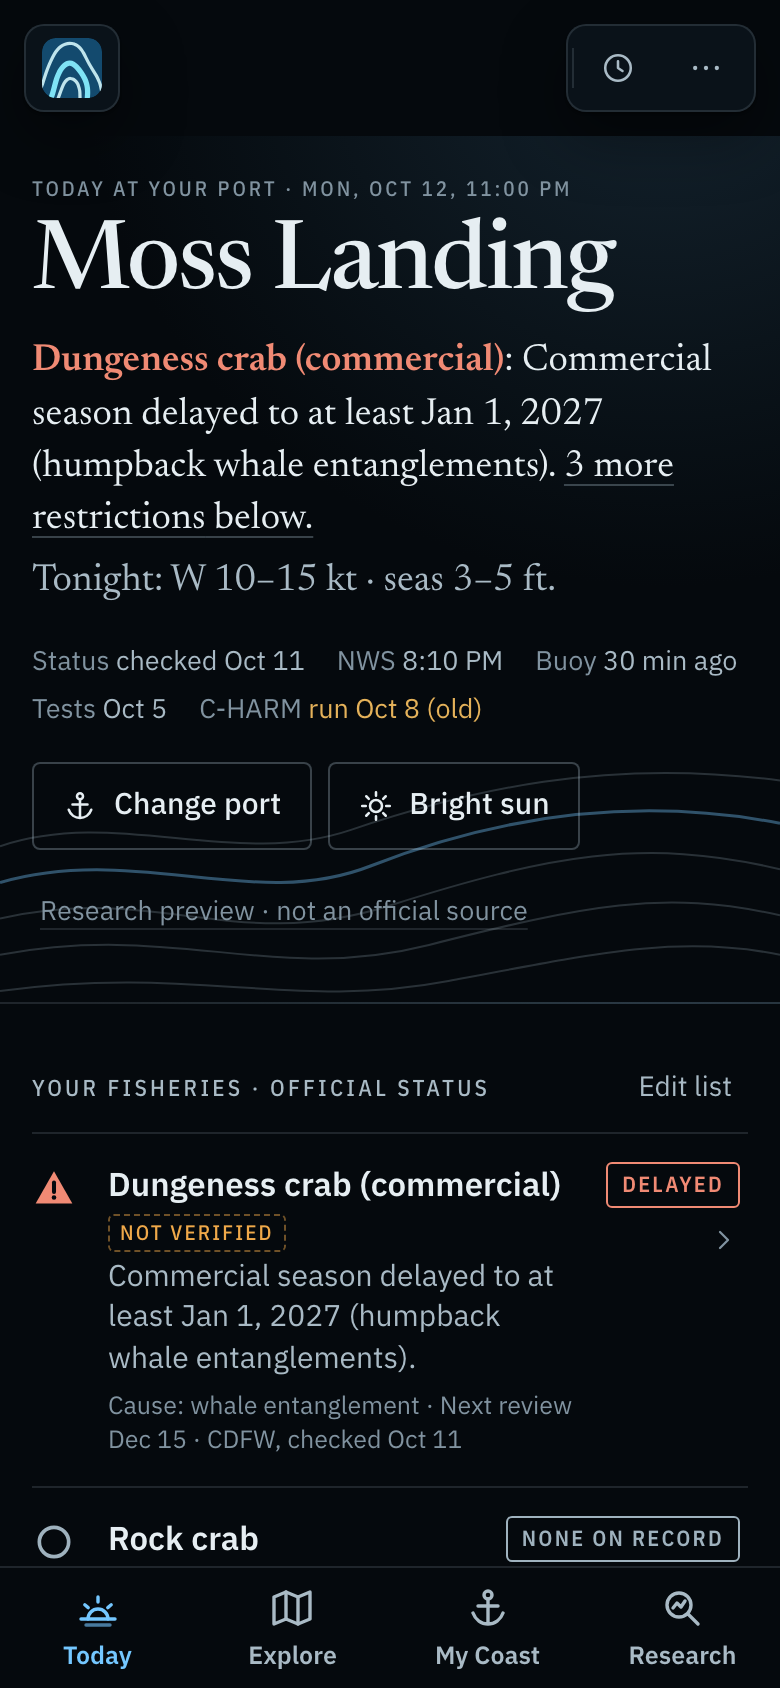
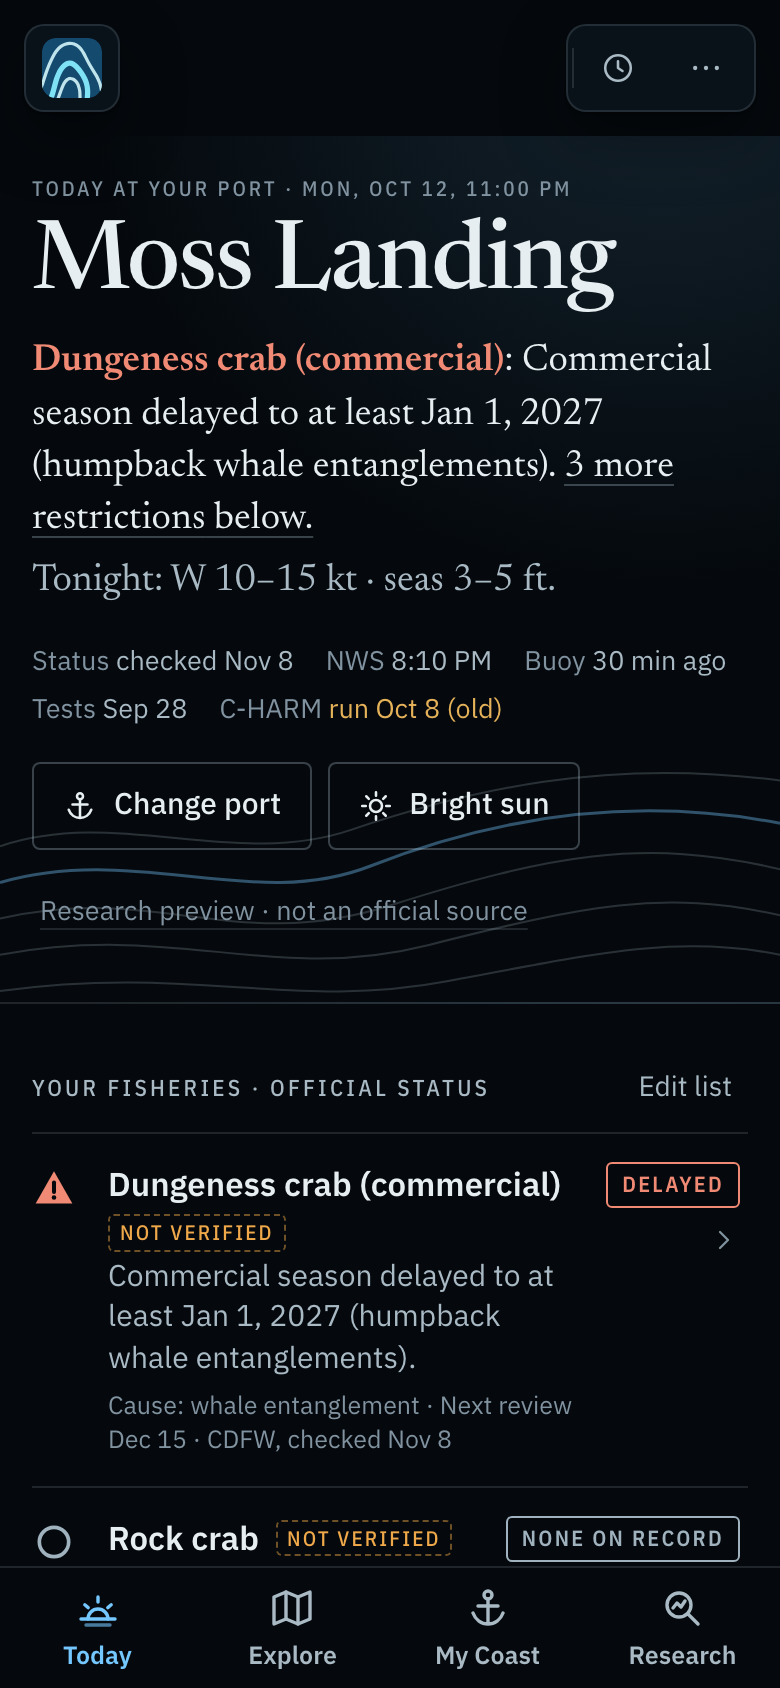
Today: read the data track's sidecars and fixtures; drop the temporary ones
src/pilot/today/load.ts now uses parseBiotoxin/parseFisheriesStatus from src/pilot/data; the
temporary checks and the Today-only sidecar fixtures are deleted. Whale rules take the zone the
data file maps the port to (then its published latitudes, then CDFW's bounds) and quote CDFW's
assessment window. Tests name CDPH's collection site; values below the reporting limit are
drawn as not quantified. Unit tests run on the data track's fixtures (with synthetic sites for
the two-clean-sets and over-limit cases); screenshots retaken.

diff --git a/coastwatch-web/tests/unit/todayFacts.test.ts b/coastwatch-web/tests/unit/todayFacts.test.ts
@@ -4,11 +4,12 @@ import path from "node:path";
 import type { BiotoxinIndex, FisheriesStatusIndex, PortFact } from "@/pilot/contracts";
 import type { Conditions } from "@/lib/conditions";
 import { buildPortToday, buildTodayModel, diffFacts, parseFisheries, rampZoneFor, skillWords, snapFacts, testSentence, type CharmInput, type NoticeInput, type OutlookInput, type PortTodayInputs } from "@/pilot/facts";
-import { parseBiotoxin, parseFisheriesStatus } from "@/pilot/today/sidecars";
+import { parseBiotoxin, parseFisheriesStatus } from "@/pilot/data";
 
-const fx = (rel: string) => JSON.parse(readFileSync(path.join(__dirname, "..", "fixture-derived", "v1", rel), "utf8"));
-const BIO = parseBiotoxin(fx("biotoxin/index.json"))!;
-const FISH = parseFisheriesStatus(fx("fisheries-status/index.json"))!;
+// the data track's fixtures (pilot/data: `cwp fixture`), as the page reads them
+const fx = (rel: string) => JSON.parse(readFileSync(path.join(__dirname, "..", "fixture-data", "v1", rel), "utf8"));
+const BIO = parseBiotoxin(fx("biotoxin/index.json"))! as BiotoxinIndex;
+const FISH = parseFisheriesStatus(fx("fisheries-status/index.json"))! as FisheriesStatusIndex;
 const NOW = "2026-10-13T13:00:00Z"; // 6 AM PDT
 
 const charm = (p: number, state: CharmInput["state"] = "current", here = false): CharmInput => ({
@@ -43,6 +44,13 @@ const base = (over: Partial<PortTodayInputs> = {}): PortTodayInputs => ({
   conditions: null,
   ...over,
 });
+const set = (date: string, values: (number | null)[], lvl = 30): BiotoxinIndex["sites"][number]["sets"][number] => {
+  const nums = values.filter((v): v is number => v != null);
+  return { date, kind: "routine", tissue: "viscera", values_ppm: values, nd_count: values.length - nums.length, avg_ppm: Number((nums.reduce((a, b) => a + b, 0) / nums.length).toFixed(1)), max_ppm: Math.max(...nums), pct_over_action: null, action_level_ppm: lvl };
+};
+const PROGRESS: BiotoxinIndex["sites"][number] = { id: "test-progress-dungeness", bma: "G", bma_label: "Monterey Bay", port_label: null, site_label: "Test site", species: "Dungeness crab", lat: null, lon: null, informs_places: ["port-592"], sets: [set("2026-09-28", [3.1, 4.8, 9.2, 2.5, 6.0, 7.4]), set("2026-09-14", [null, 4.0, 12.1, 6.2, 8.3, 3.9]), set("2026-08-31", [14.2, 22.0, 9.8, 31.5, 18.0, 12.4])] };
+const ANCHOVY: BiotoxinIndex["sites"][number] = { id: "test-anchovy", bma: null, bma_label: "Monterey Bay", port_label: null, site_label: "Monterey Bay (Block 509)", species: "Northern anchovy", lat: null, lon: null, informs_places: ["port-592"], sets: [set("2026-10-05", [85, 210, 44, 120, 66, 31], 20)] };
+const BIO_PLUS: BiotoxinIndex = { ...BIO, sites: [...BIO.sites, PROGRESS, ANCHOVY] };
 const SAFETY = /\b(safe|safety|all clear|clear to|good to go|go fishing|green light|no risk)\b/i;
 const text = (f: PortFact) => [f.headline, f.value, f.detail].filter(Boolean).join(" ");
 
@@ -73,11 +81,11 @@ describe("buildPortToday: hierarchy", () => {
 
   it("a clean test never softens an official delay of the same fishery", () => {
     const m = buildTodayModel(base());
-    const t = m.tests.find((x) => x.site.id === "bma-g-monterey-bay-dungeness")!;
+    const t = m.tests.find((x) => x.site.id === "bma-g-monterey-bay-dungeness-crab")!;
     expect(t.fact.detail).toMatch(/still delayed/);
     expect(m.lede.label).toBe("Dungeness crab (commercial)");
     expect(m.lede.text).toMatch(/^Commercial season delayed to at least Jan 1, 2027/);
-    expect(m.lede.more).toBe(2); // anchovy/sardine and salmon restrictions below
+    expect(m.lede.more).toBe(3); // salmon (season over), anchovy/sardine, mussels (watch) below
   });
 
   it("keeps the strip order of the reader's fisheries and stable ids", () => {
@@ -137,10 +145,9 @@ describe("buildPortToday: words", () => {
   });
 
   it("states a test plainly first: place, species, verdict against the limit, date, average", () => {
-    const site = BIO.sites.find((s) => s.id === "bma-g-monterey-bay-dungeness")!;
+    const site = BIO.sites.find((s) => s.id === "bma-g-monterey-bay-dungeness-crab")!;
     expect(testSentence(site, site.sets[0], 30, NOW)).toBe("Monterey Bay Dungeness tested well under the limit on Sep 28: avg 5.5 ppm, limit 30.");
-    const anchovy = BIO.sites.find((s) => s.id === "monterey-bay-northern-anchovy")!;
-    expect(testSentence(anchovy, anchovy.sets[0], 20, NOW)).toMatch(/tested over the limit on Oct 5: 6 of 6 samples at or over 20 ppm, max 210 ppm/);
+    expect(testSentence(ANCHOVY, ANCHOVY.sets[0], 20, NOW)).toMatch(/tested over the limit on Oct 5: 6 of 6 samples at or over 20 ppm, max 210 ppm/);
   });
 
   it("observations are measured with their own time; forecasts are forecasts", () => {
@@ -173,9 +180,9 @@ describe("buildPortToday: stale and missing data", () => {
   });
 
   it("flags old tests, old status checks and an old refresh", () => {
-    const later = "2026-11-20T16:00:00Z";
+    const later = "2026-11-25T16:00:00Z";
     const m = buildTodayModel(base({ now: later }));
-    const t = m.tests.find((x) => x.site.id === "bma-g-monterey-bay-dungeness")!;
+    const t = m.tests.find((x) => x.site.id === "bma-g-monterey-bay-dungeness-crab")!;
     expect(t.stale).toBe(true);
     expect(t.fact.detail).toMatch(/over 30 days old/);
     expect(m.status.find((r) => r.fishery === "dungeness_commercial")!.stale).toBe(true);
@@ -194,12 +201,12 @@ describe("buildPortToday: stale and missing data", () => {
   });
 
   it("shows progress toward two clean sets after a set over the action level", () => {
-    const m = buildTodayModel(base());
-    const t = m.tests.find((x) => x.site.id === "bma-g-monterey-bay-dungeness")!;
+    const m = buildTodayModel(base({ biotoxin: BIO_PLUS }));
+    const t = m.tests.find((x) => x.site.id === "test-progress-dungeness")!;
     expect(t.cleanStreak).toBe(2);
     expect(t.showProgress).toBe(true);
     expect(t.progressWords).toMatch(/^Two consecutive sets under the action level \(Sep 14 and Sep 28\)/);
-    const a = m.tests.find((x) => x.site.id === "monterey-bay-northern-anchovy")!;
+    const a = m.tests.find((x) => x.site.id === "test-anchovy")!;
     expect(a.over).toBe(true);
     expect(a.fact.severity).toBe("amber");
     expect(a.cleanStreak).toBe(0);
@@ -214,7 +221,7 @@ describe("whale rules and helpers", () => {
     const m = buildTodayModel(base());
     expect(m.whale!.zone).toBe("4");
     expect(m.whale!.fact.severity).toBe("red");
-    expect(m.whale!.fact.detail).toMatch(/Next CDFW risk assessment Dec 15/);
+    expect(m.whale!.fact.detail).toMatch(/Next CDFW risk assessment December 15-18/);
     expect(m.whale!.verified).toBe(false);
   });
 
@@ -234,15 +241,18 @@ describe("what changed since the last visit", () => {
     expect(d.some((c) => c.id.startsWith("sea:") || c.id.startsWith("tide:"))).toBe(false);
     expect(diffFacts(snapFacts(next.facts), next.facts)).toEqual([]);
     const gone = diffFacts(snapFacts(next.facts), buildPortToday(base({ biotoxin: null })).facts);
-    expect(gone.filter((c) => c.change === "gone").map((c) => c.id)).toContain("test:bma-g-monterey-bay-dungeness");
+    expect(gone.filter((c) => c.change === "gone").map((c) => c.id)).toContain("test:bma-g-monterey-bay-dungeness-crab");
   });
 });
 
-describe("temporary sidecar checks", () => {
-  it("rejects malformed sidecars", () => {
-    expect(parseBiotoxin({ version: 2 })).toBeNull();
-    expect(parseFisheriesStatus({ version: 1, records: [{ id: "x", level: "safe" }] })!.records).toEqual([]);
-    expect((parseBiotoxin(fx("biotoxin/index.json")) as BiotoxinIndex).sites.length).toBe(4);
-    expect((parseFisheriesStatus(fx("fisheries-status/index.json")) as FisheriesStatusIndex).ramp!.zones.length).toBe(5);
+describe("the data track's fixtures, as Today reads them", () => {
+  it("Monterey Bay's ports get their crab sites and RAMP zone 4; Half Moon Bay gets its own", () => {
+    expect(BIO.sites.filter((x) => x.informs_places.includes("port-592")).map((x) => x.id)).toEqual(expect.arrayContaining(["bma-g-monterey-bay-dungeness-crab", "bma-g-monterey-bay-rock-crab"]));
+    const hmb = buildTodayModel(base({ place: { place_id: "port-452", label: "Princeton / Half Moon Bay", lat: 37.5037, lon: -122.48185 } }));
+    expect(hmb.whale!.zone).toBe("3");
+    expect(hmb.tests.map((t) => t.site.id)).toEqual(expect.arrayContaining(["bma-f-pillar-point-dungeness-crab", "bma-f-pigeon-point-dungeness-crab"]));
+    expect(hmb.status.find((r) => r.fishery === "anchovy_sardine")!.level).toBe("no_restriction_on_record");
+    // every curated record is pending, so every one says Not verified
+    expect(buildTodayModel(base()).status.filter((r) => r.records.length).every((r) => r.verified === false)).toBe(true);
   });
 });

diff --git a/coastwatch-web/src/pilot/facts.ts b/coastwatch-web/src/pilot/facts.ts
@@ -278,6 +278,8 @@ export type WhaleView = {
   gear_reduction_pct: number | null;
   last_assessment: string | null;
   next_assessment: string | null;
+  /** the assessment window as CDFW words it ("December 15-18 (then January 13-15), subject to change"), when published */
+  next_window: string | null;
   season: string | null;
   source_url: string | null;
   verified: boolean | null;
@@ -529,14 +531,19 @@ function ledeOf(rows: StatusRow[], statusError: boolean, sea: SeaView): Lede {
 // ---------------------------------------------------------------- whale (RAMP)
 
 function whaleView(ramp: RampState | null, place: TodayPlace, now: string, fact: (f: Omit<PortFact, "place_id">) => PortFact): WhaleView | null {
-  const z = rampZoneFor(place.lat);
   if (!ramp) return null;
-  const zone = ramp.zones.find((x) => x.zone.replace(/\D/g, "") === z.zone) ?? null;
+  // the zone the data file maps this place to, else the zone whose published latitudes hold it, else CDFW's bounds (14 CCR §132.8)
+  type Z = RampState["zones"][number] & { applies_to_places?: string[]; lat_north?: number | null; lat_south?: number | null };
+  const zs = ramp.zones as Z[];
+  const mapped = zs.find((x) => x.applies_to_places?.includes(place.place_id)) ?? zs.find((x) => x.lat_north != null && x.lat_south != null && place.lat <= x.lat_north && place.lat > x.lat_south) ?? null;
+  const z = mapped ? { zone: mapped.zone.replace(/\D/g, "") || mapped.zone, label: mapped.label } : rampZoneFor(place.lat);
+  const zone = mapped ?? zs.find((x) => x.zone.replace(/\D/g, "") === z.zone) ?? null;
+  const window = (ramp as RampState & { next_assessment_window?: string | null }).next_assessment_window ?? null;
   const action = zone?.action ?? null;
   const severity: Severity = !zone ? "info" : /delay|clos/i.test(action ?? "") ? "red" : zone.depth_limit_fathoms != null || zone.gear_reduction_pct != null || /depth|gear|advis|restrict|reduc/i.test(action ?? "") ? "amber" : "neutral";
   const extras = [zone?.depth_limit_fathoms != null ? `traps limited to ${zone.depth_limit_fathoms} fathoms or shallower` : null, zone?.gear_reduction_pct != null ? `trap numbers reduced by ${zone.gear_reduction_pct}%` : null].filter(Boolean);
   const headline = zone ? `Whale rules, RAMP Zone ${z.zone} (${zone.label || z.label}): ${lower1(action ?? "no action on record").replace(/\.$/, "")}.` : `Whale rules: Neritic has no RAMP action on record for Zone ${z.zone} (${z.label}).`;
-  const detail = [extras.length ? `${extras.join("; ")}.` : null, ramp.next_assessment ? `Next CDFW risk assessment ${dayWords(ramp.next_assessment, now)}.` : null, "RAMP rules apply to commercial and recreational Dungeness trap gear; they are about whale entanglement, not toxin."].filter(Boolean).join(" ");
+  const detail = [extras.length ? `${extras.join("; ")}.` : null, ramp.next_assessment ? `Next CDFW risk assessment ${window ?? dayWords(ramp.next_assessment, now)}.` : null, "RAMP rules apply to commercial and recreational Dungeness trap gear; they are about whale entanglement, not toxin."].filter(Boolean).join(" ");
   return {
     zone: z.zone,
     label: zone?.label || z.label,
@@ -545,6 +552,7 @@ function whaleView(ramp: RampState | null, place: TodayPlace, now: string, fact:
     gear_reduction_pct: zone?.gear_reduction_pct ?? null,
     last_assessment: ramp.last_assessment,
     next_assessment: ramp.next_assessment,
+    next_window: window,
     season: ramp.season,
     source_url: ramp.source_url,
     verified: ramp.review_state === "human_verified",
@@ -569,7 +577,8 @@ const isClean = (s: BiotoxinSet, lvl: number | null) => {
 };
 
 export function testSentence(site: BiotoxinSite, set: BiotoxinSet | null, lvl: number | null, now: string): string {
-  const where = site.bma_label ?? site.port_label ?? site.site_label;
+  // the collection site as CDPH writes it ("Monterey Bay", "Pillar Point"): more specific than the BMA
+  const where = site.site_label || site.bma_label || site.port_label || "CDPH site";
   const sp = site.species.replace(/ crab$/i, "").replace(/^Northern /, "northern ");
   const subject = `${where} ${sp}`;
   if (!set) return `${subject}: no test results published.`;

diff --git a/coastwatch-web/src/pilot/today/Bloom.tsx b/coastwatch-web/src/pilot/today/Bloom.tsx
@@ -75,7 +75,7 @@ export function WhaleRules({ whale, now }: { whale: WhaleView | null; now: strin
           <ZoneLadder zone={whale.zone} severity={whale.fact.severity} />
           <div className="min-w-0 flex-1">
             <p className="text-[17px] leading-snug text-n-ink" data-testid="whale-lede">
-              Zone {whale.zone}, {whale.label}: <b className="font-semibold">{whale.action ?? "no action on record"}</b>.
+              Zone {whale.zone}, {whale.label}: <b className="font-semibold">{(whale.action ?? "no action on record").replace(/\.+$/, "")}</b>.
             </p>
             <dl className="mt-3 grid grid-cols-[auto_minmax(0,1fr)] gap-x-4 gap-y-1.5 text-[14.5px]">
               <dt className="text-n-ink-3">Depth limit</dt>
@@ -91,6 +91,7 @@ export function WhaleRules({ whale, now }: { whale: WhaleView | null; now: strin
               <dt className="text-n-ink-3">Next assessment</dt>
               <dd className="text-n-ink" data-testid="whale-next">
                 {whale.next_assessment ? dayWords(whale.next_assessment, now) : "not announced"}
+                {whale.next_window && <span className="block text-[13px] text-n-ink-3">CDFW: {whale.next_window}</span>}
               </dd>
             </dl>
             <p className="today-src mt-2 flex flex-wrap items-center gap-2">
@@ -102,7 +103,7 @@ export function WhaleRules({ whale, now }: { whale: WhaleView | null; now: strin
               </span>
               <Unverified verified={whale.verified} />
             </p>
-            <p className="nx-margin mt-2">About whale entanglement in trap gear, not toxin. There is no whale-sighting feed for Monterey Bay in Neritic.</p>
+            <p className="nx-margin mt-2">About whale entanglement in trap gear, not toxin. Neritic has no whale-sighting feed for these waters.</p>
           </div>
         </div>
       )}

diff --git a/coastwatch-web/tests/e2e/today.spec.ts b/coastwatch-web/tests/e2e/today.spec.ts
@@ -53,7 +53,6 @@ for (const [label, viewport] of [["phone", { width: 390, height: 844 }], ["deskt
       // the tests: a plain sentence first, then the chart with a text alternative
       await expect(page.getByTestId("tests-lede")).toHaveText("Monterey Bay Dungeness tested well under the limit on Sep 28: avg 5.5 ppm, limit 30.");
       await expect(page.getByTestId("toxin-chart").first()).toHaveAttribute("role", "img");
-      await expect(page.getByTestId("clean-progress").first()).toContainText("Two consecutive sets under the action level");
       // the bloom outlook: C-HARM as conditions, the outlook as an indicator with skill from the data file
       await expect(page.getByTestId("bloom-lede")).toContainText("probability of elevated particulate domoic acid in the water");
       await expect(page.getByTestId("outlook-words")).toContainText("a bloom indicator, not a toxin forecast");
@@ -61,7 +60,8 @@ for (const [label, viewport] of [["phone", { width: 390, height: 844 }], ["deskt
       await expect(page.getByTestId("bloom-timeline")).toBeVisible();
       // whale rules
       await expect(page.getByTestId("whale-lede")).toContainText("Zone 4");
-      await expect(page.getByTestId("whale-next")).toHaveText("Dec 15");
+      await expect(page.getByTestId("whale-next")).toContainText("Dec 15");
+      await expect(page.getByTestId("whale-next")).toContainText("December 15-18");
       // honesty: nothing is called safe, and the actions carry their readiness labels
       expect(await page.locator("main").innerText()).not.toMatch(SAFETY);
       await expect(page.getByTestId("readiness-alerts")).toContainText(/Not yet connected|Pilot demo|Live/);

diff --git a/coastwatch-web/src/pilot/today/Tests.tsx b/coastwatch-web/src/pilot/today/Tests.tsx
@@ -35,7 +35,7 @@ export function ToxinTests({ tests, error, now, sourceUrl }: { tests: TestSiteVi
               <li key={t.site.id} className="border-t border-n-line py-4 first:border-t-0" data-testid={`test-${t.site.id}`}>
                 <div className="flex flex-wrap items-baseline justify-between gap-x-3 gap-y-1">
                   <h3 className="text-[16px] font-semibold text-n-ink">
-                    {t.site.species} <span className="font-normal text-n-ink-2">· {t.site.bma ? `BMA ${t.site.bma}, ` : ""}{t.site.site_label}</span>
+                    {t.site.species} <span className="font-normal text-n-ink-2">· {t.site.bma ? `BMA ${t.site.bma}${t.site.bma_label ? ` (${t.site.bma_label})` : ""}, ` : ""}{t.site.site_label}</span>
                   </h3>
                   {t.latest && (
                     <span className={`text-[13px] ${t.stale ? "t-amber" : "text-n-ink-3"}`} data-testid="test-age">
@@ -65,7 +65,7 @@ export function ToxinTests({ tests, error, now, sourceUrl }: { tests: TestSiteVi
                         <svg width="8" height="8" aria-hidden className="mr-1 inline">
                           <circle cx="4" cy="4" r="2.6" fill="none" stroke="var(--nx-measured)" strokeWidth="1.2" />
                         </svg>
-                        not detected
+                        not detected or below the reporting limit
                       </span>
                       {t.latest.tissue !== "unknown" && <span>{t.latest.tissue}</span>}
                     </p>

diff --git a/coastwatch-web/src/pilot/today/Charts.tsx b/coastwatch-web/src/pilot/today/Charts.tsx
@@ -62,7 +62,7 @@ export function ToxinChart({ sets, action, label, now }: { sets: BiotoxinSet[]; 
               const cx = x(i) + (j - (n - 1) / 2) * Math.min(6, (step - 10) / Math.max(n, 1));
               return v == null ? <circle key={j} className="dot nd" cx={cx} cy={y(log ? 1 : 0)} r={2.6} /> : <circle key={j} className={`dot${action != null && v >= action ? " over" : ""}`} cx={cx} cy={y(v)} r={3} />;
             })}
-            {s.avg_ppm != null && <line className="avg" x1={x(i) - step * 0.32} x2={x(i) + step * 0.32} y1={y(s.avg_ppm)} y2={y(s.avg_ppm)} />}
+            {s.avg_ppm != null && <line className="avg" x1={x(i) - Math.min(step * 0.32, 26)} x2={x(i) + Math.min(step * 0.32, 26)} y1={y(s.avg_ppm)} y2={y(s.avg_ppm)} />}
             <text x={x(i)} y={H - 6} textAnchor="middle">
               {dayWords(s.date, now).replace(/, \d{4}$/, "")}
             </text>

diff --git a/coastwatch-web/src/pilot/today/load.ts b/coastwatch-web/src/pilot/today/load.ts
@@ -22,7 +22,7 @@ import { neighbourhood, NEIGHBOURHOOD_KM } from "@/lib/hab";
 import { derivedOutlook, parseDerived, type DerivedGrid } from "@/lib/derived";
 import { PILOT_PORTS } from "@/pilot/contracts";
 import type { CharmInput, CharmProb, NoticeInput, OutlookInput, PortTodayInputs } from "@/pilot/facts";
-import { parseBiotoxin, parseFisheriesStatus } from "./sidecars";
+import { parseBiotoxin, parseFisheriesStatus } from "@/pilot/data";
 
 export type PortOption = { place_id: string; label: string; county: string | null; pilot: boolean; lat: number; lon: number };
 

diff --git a/docs/coastwatch/pilot/design/README.md b/docs/coastwatch/pilot/design/README.md
@@ -43,8 +43,8 @@ C keeps the Neritic editorial voice: the Newsreader display serif for places and
   - the dark tokens are the default for 4 a.m.
 - **Lean:** no map library in `/today`. The charts are small hand-drawn SVGs, and the page is server-rendered from `buildPortToday`.
 
-## As built (fixture data, recorded NOAA answers of 2026-10-13)
+## As built (the data track's fixtures, recorded NOAA answers of 2026-10-13)
 - **Phone:** `today-phone-dark.png`, `today-phone-day.png` (bright-sun mode), `today-phone-dark-full.png` (the whole page), `today-picker-phone.png` (no port).
-- **Desktop:** `today-desktop-dark.png`, `today-desktop-day.png`, `today-desktop-day-full.png`.
+- **Desktop:** `today-desktop-dark.png`, `today-desktop-day.png`, `today-desktop-day-full.png`, and `today-hmb-desktop-dark-full.png` (Half Moon Bay).
 
 On desktop the hero gains an "At a glance" column, and the sections sit in two columns: status beside sea, tests beside bloom, whale rules beside what changed. The DOM order stays the phone order, so headings and screen readers follow the same hierarchy.
